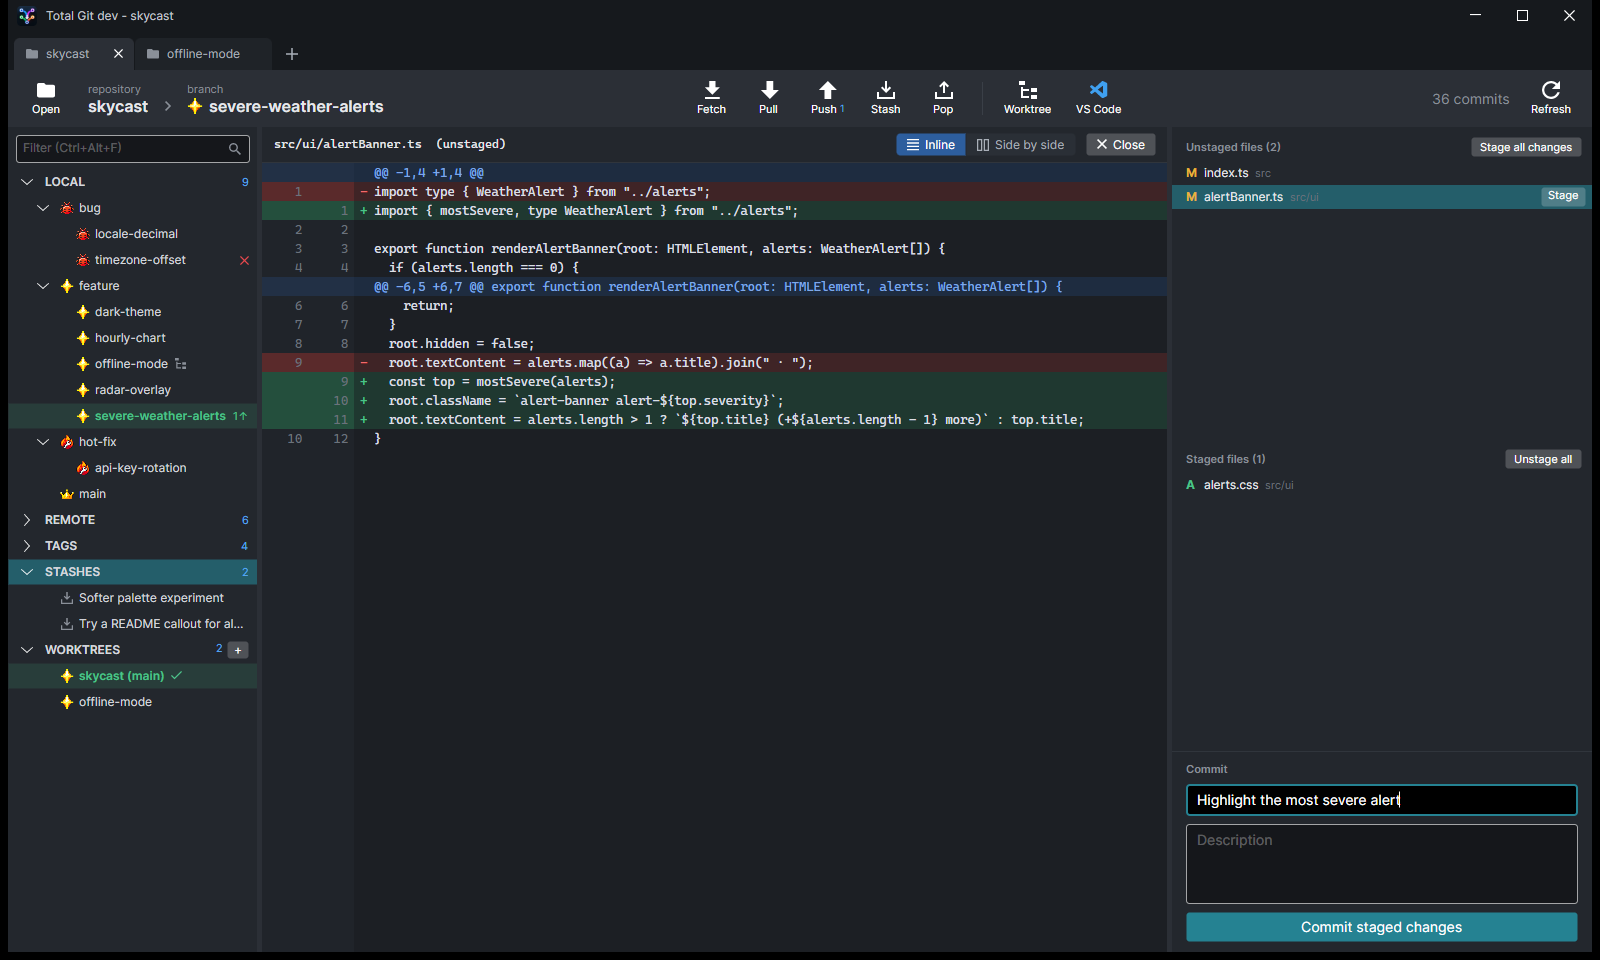
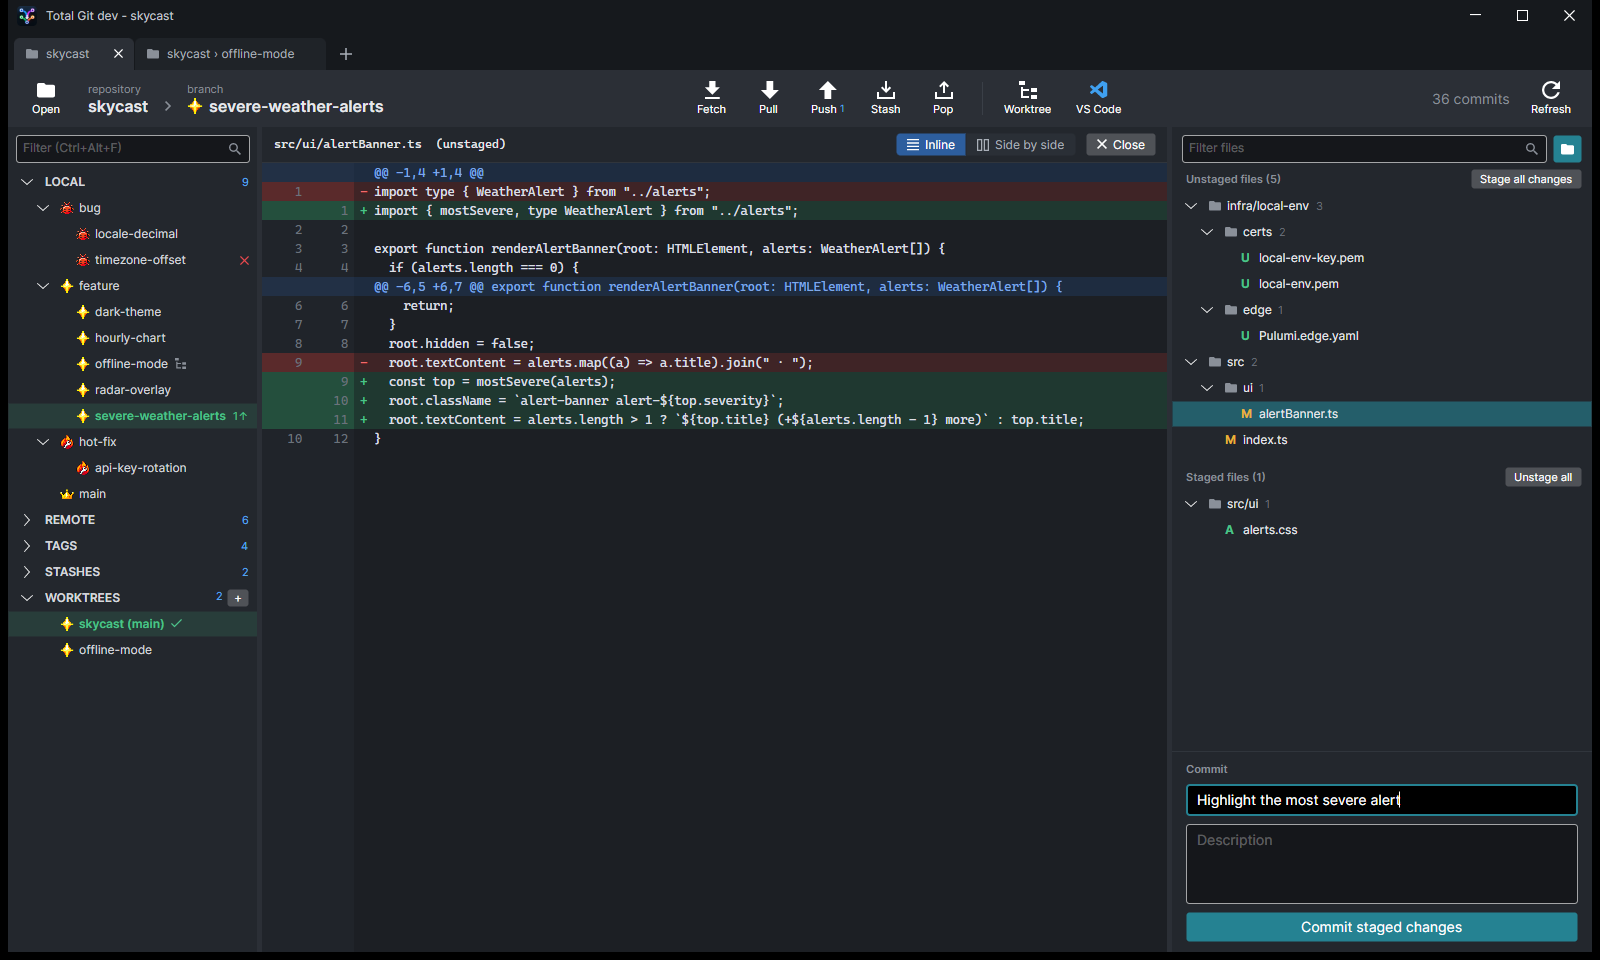
README: staging tree screenshot and the Add to .gitignore dialog

diff --git a/README.md b/README.md
@@ -14,7 +14,9 @@ A visual git client for Windows, built with .NET and Avalonia.
   ✕ on branches whose remote branch has been deleted.
 - **Tabs** for several repositories or worktrees at once, restored when you reopen the app.
 - **Diffs** inline or side by side, for commits and for uncommitted changes.
-- **Staging and commit**, fetch, pull and push.
+- **Staging and commit** with changed files grouped in a collapsible folder tree (or a flat list) and a filter,
+  plus fetch, pull and push.
+- **Add to .gitignore** from a right-click on a file or folder: edit the rule and see which files it will hide.
 - **Merge and rebase** from the right-click menu, including rebasing onto any commit and
   **interactive rebase** (reorder, reword, squash, fix up or drop commits).
 - **Built-in 3-pane merge tool** for conflicts, with continue / skip / abort for merges and rebases in progress.
@@ -28,6 +30,10 @@ A visual git client for Windows, built with .NET and Avalonia.
 | Resolving a merge conflict | Interactive rebase |
 | --- | --- |
 | ![The 3-pane merge tool with a merge in progress](docs/screenshots/merge-tool.png) | ![Interactive rebase: pick, squash and reword commits](docs/screenshots/interactive-rebase.png) |
+
+Right-click a changed file or folder to add it to `.gitignore`, with a live list of what the rule hides:
+
+<img src="docs/screenshots/gitignore.png" alt="Add to .gitignore: an editable rule with the files it matches" width="560">
 
 Right-click a commit, branch or tag for tags, worktrees, merge and rebase:
 
